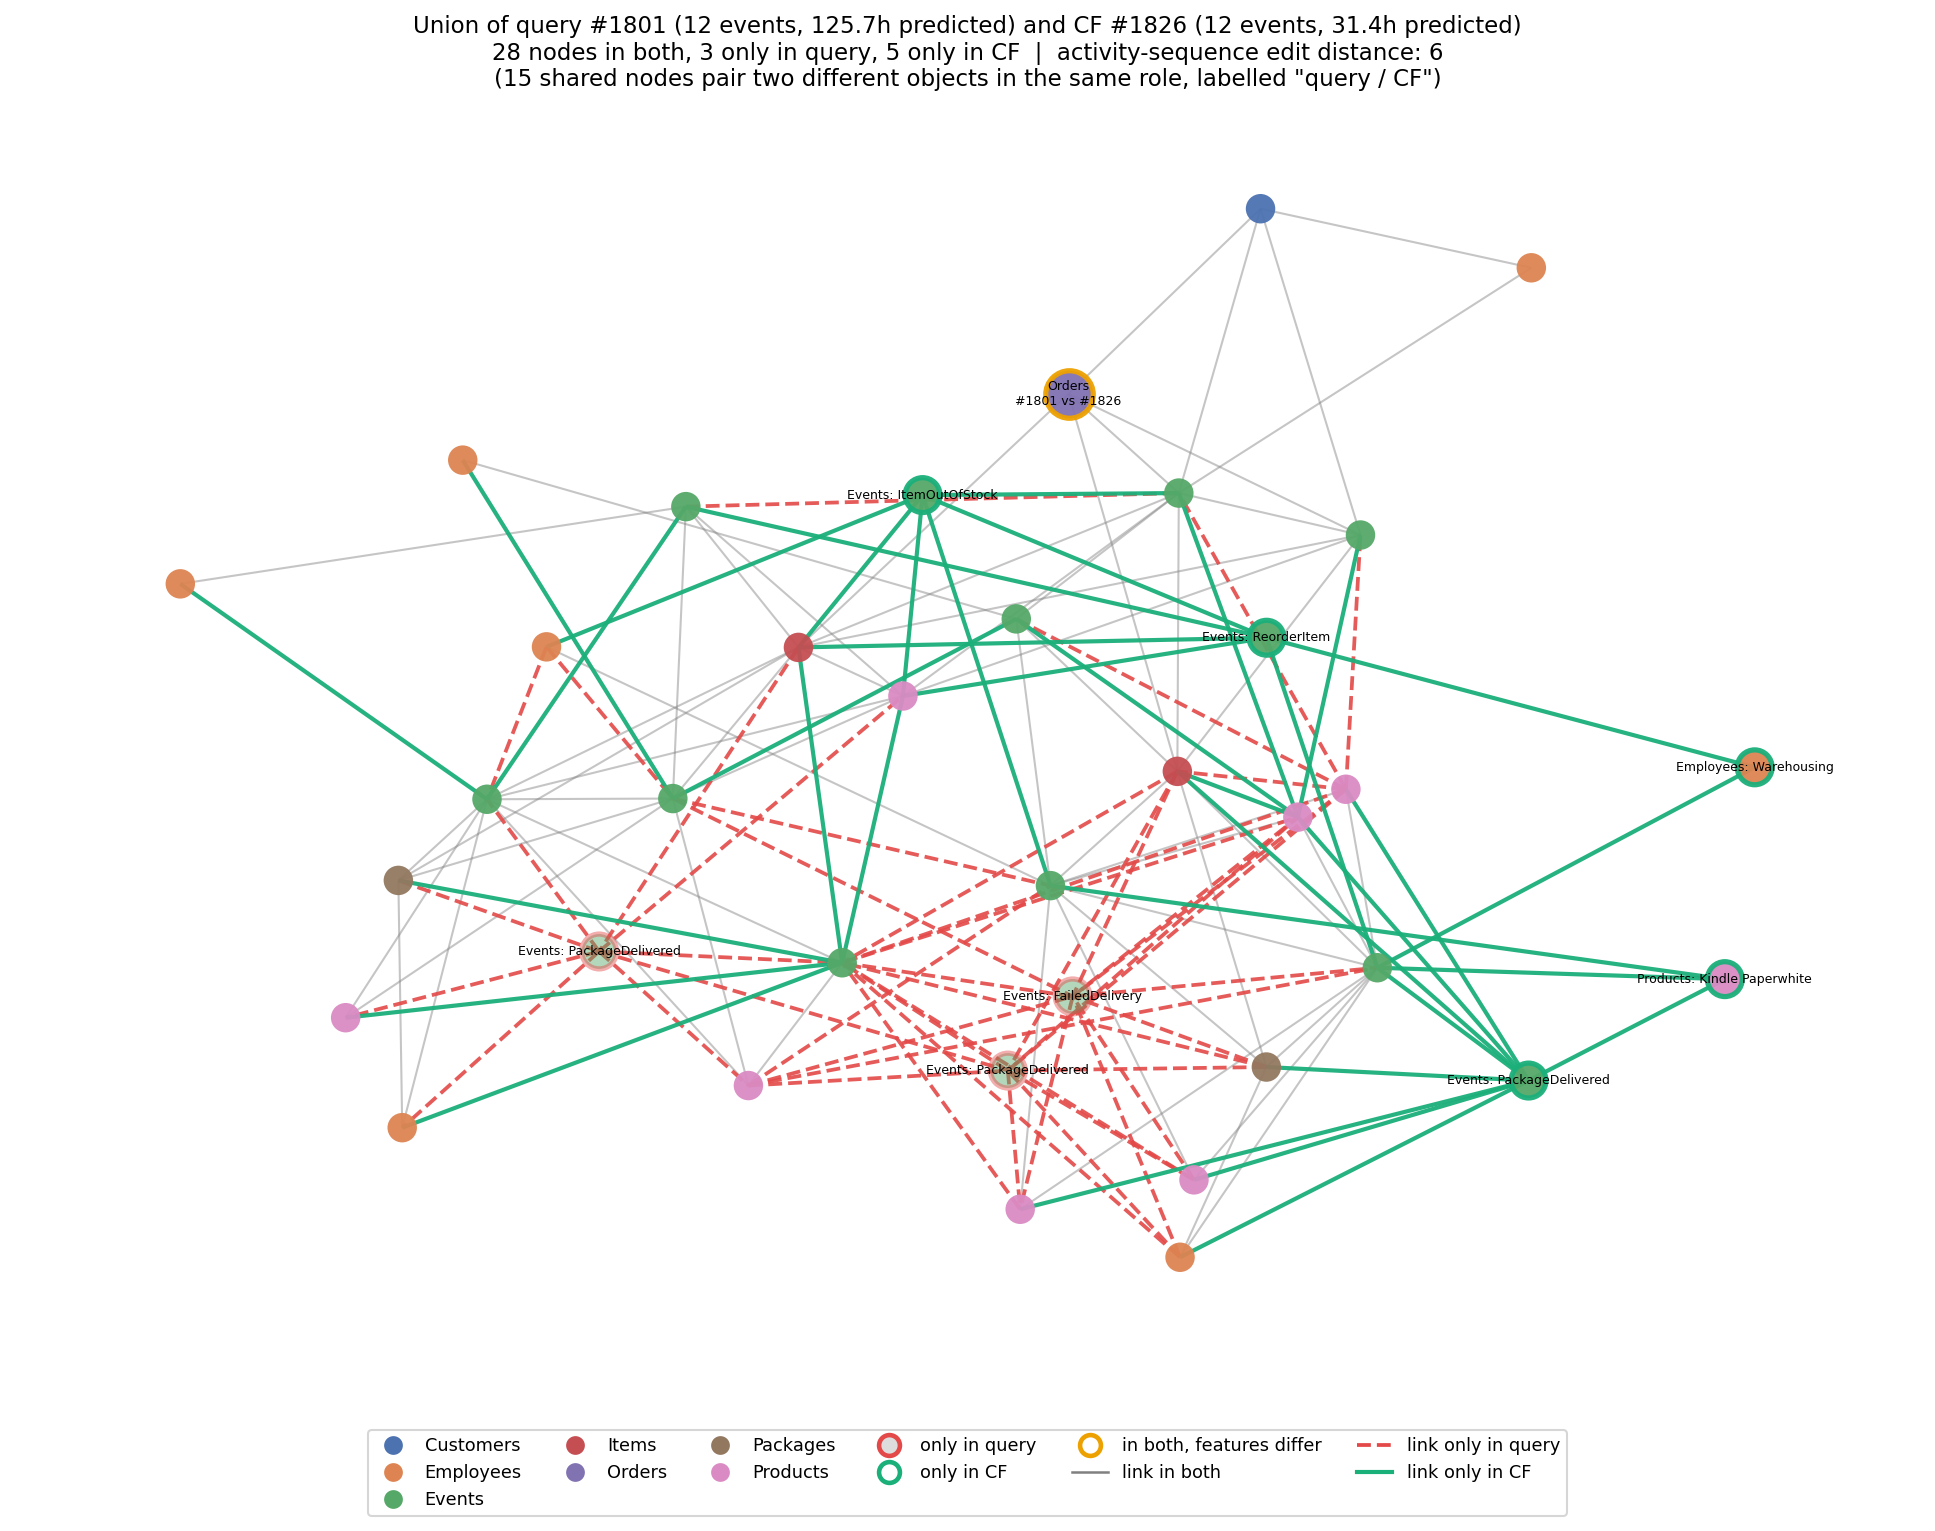
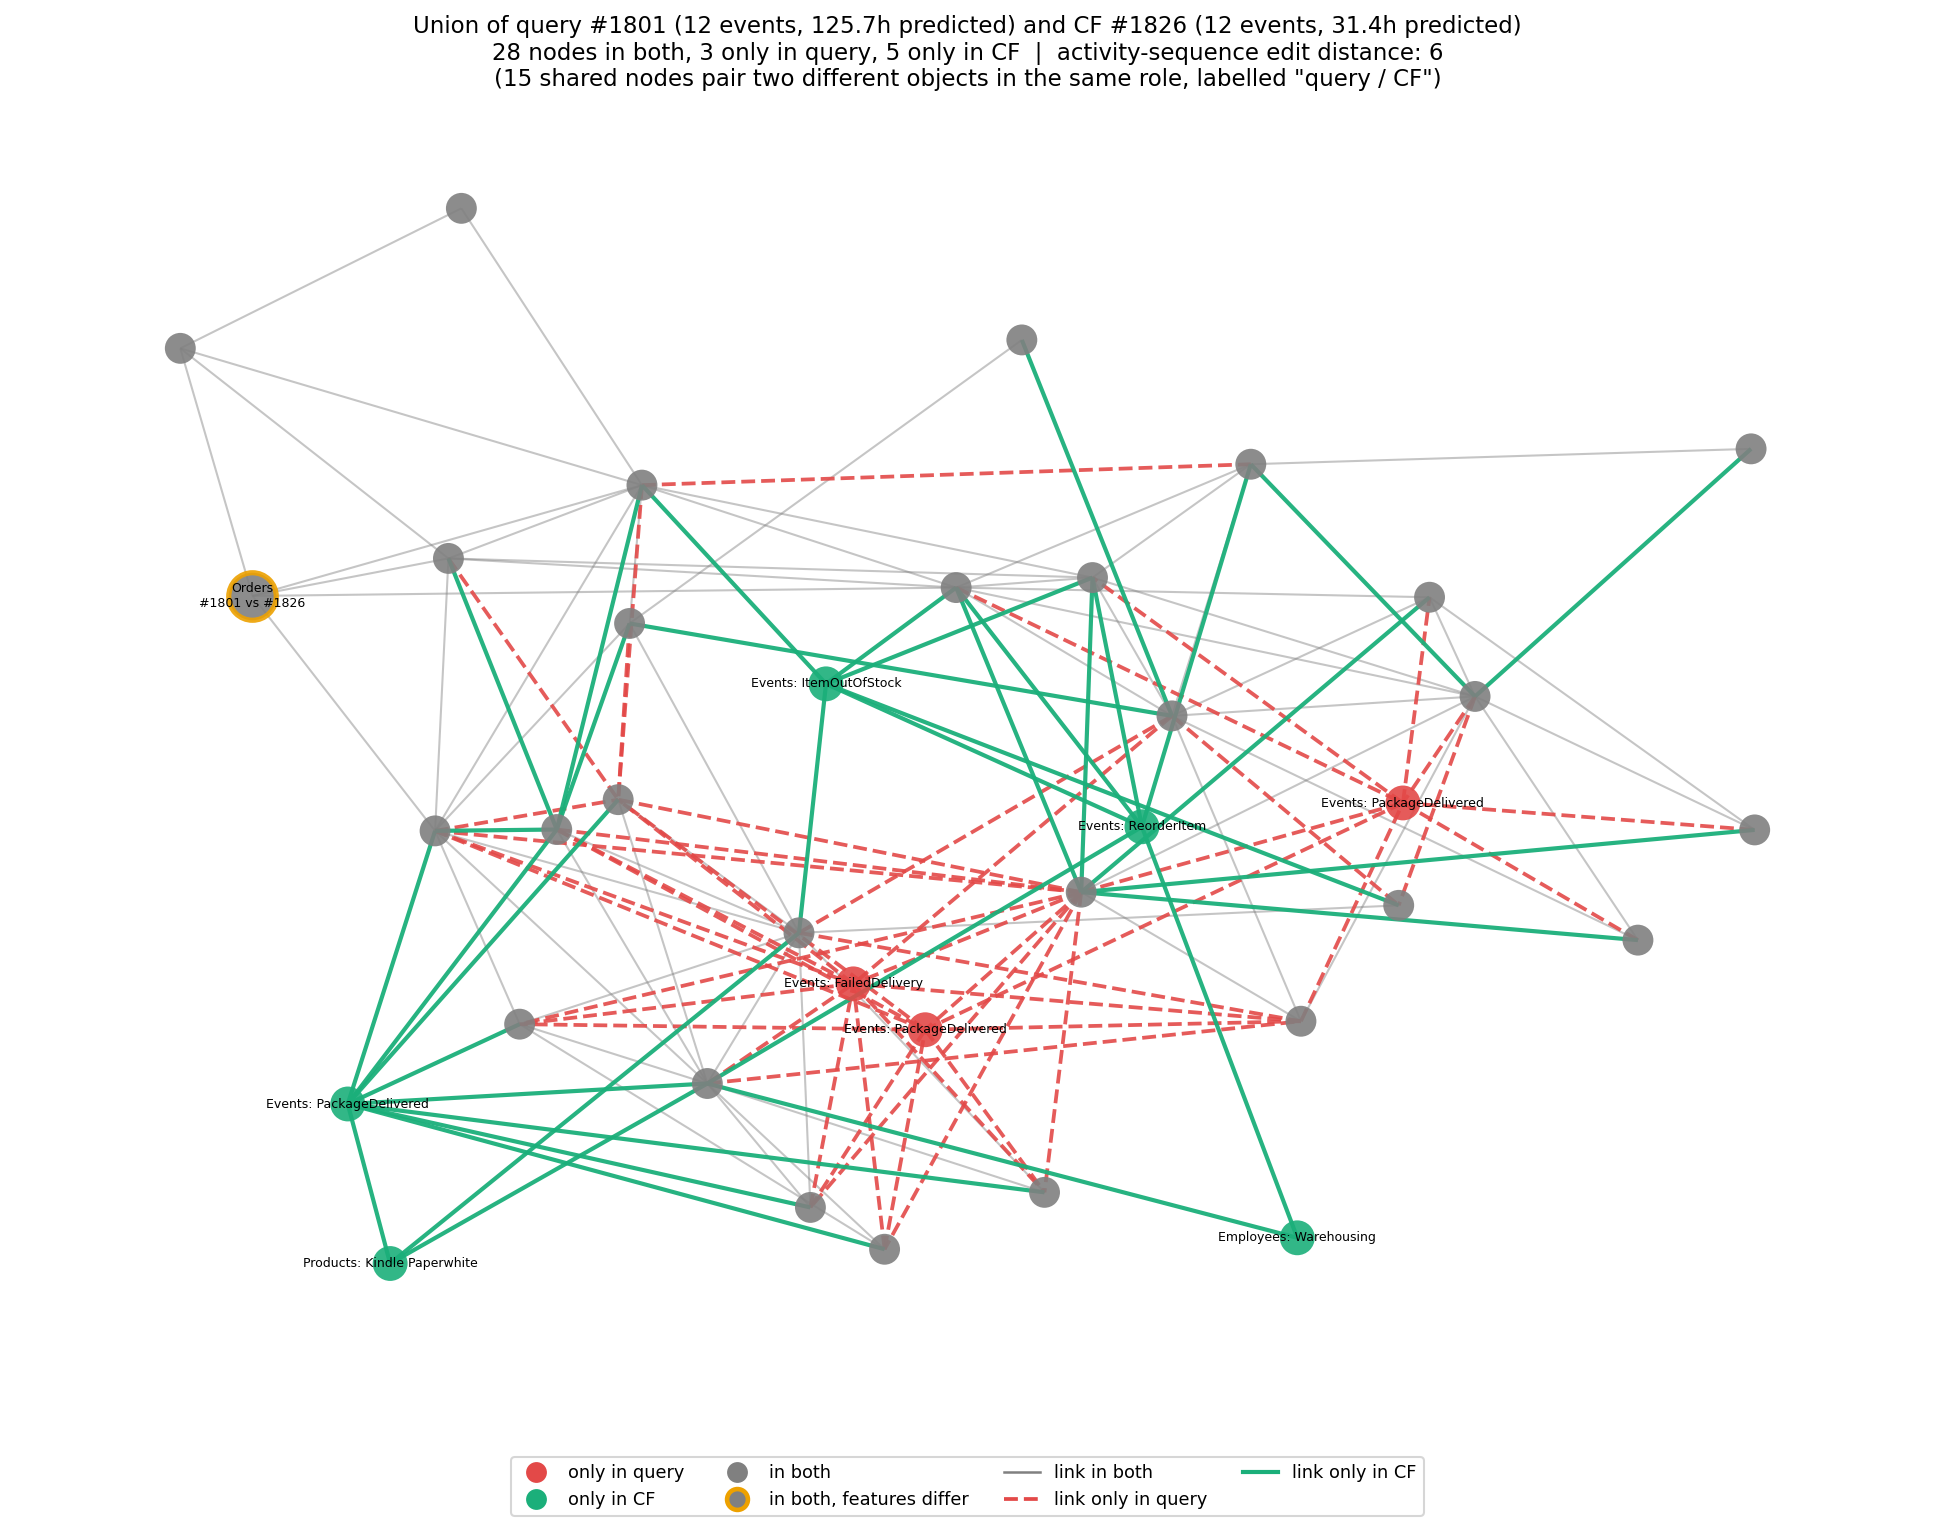
Add one 4-5 event counterfactual union example per KPI
cf_union_graph_examples.py draws one cf_union_<kpi>.png for each of the five
KPIs into thesis_parts/figures_tables/cf_union_examples/, with query and CF
both at 4-5 events. Selection is deterministic: the first test query whose
closest in-range CF moves the prediction by >= 10% (floor 1 h) and has nodes
on both sides of the union. LoadToVehicle runs with --min-gap-share 0: its
predictions at 2-7 events span only ~319-324 h, so its example (3.4 h gap)
is the largest contrast that model offers at this depth. Each pick is logged
in selection.csv. cf_showcase_union_graph.png regenerated in the new colours.

diff --git a/thesis_scripts/cf_union_graph_examples.py b/thesis_scripts/cf_union_graph_examples.py
@@ -1,0 +1,157 @@
+"""Counterfactual union-graph examples, one per KPI, all with 4-5 event prefixes.
+
+One cf_union_<kpi>.png per analysed KPI, all in thesis_parts/figures_tables/cf_union_examples/.
+Both the query prefix and its counterfactual have 4 or 5 Events, so the five examples are
+comparable in size and every node can be labelled.
+
+Selection is deterministic: test-set ids in ascending order; for each id with a 4-event
+prefix (then a 5-event one), find_counterfactuals(n_events=...) is run and its candidates
+with 4-5 events (and a predicted-time gap of >= 10% of the query's prediction, at least
+1 h) are scanned in dissimilarity order. The first pair whose union has nodes
+both only in the query and only in the CF is the example (a structurally identical pair
+would draw all-grey and illustrate nothing); if none turns up within MAX_QUERIES queries,
+the first in-range pair is used instead.
+Each pick is recorded in cf_union_examples/selection.csv (one row per KPI, replaced on rerun).
+
+--kpi runs against whatever config.yml and the graph caches CURRENTLY point at (it checks
+task_id and exits on a mismatch), so Depart and PackageDelivered need their caches swapped
+in first, as for loo_shapley_trace_showcase.py.
+
+Usage (from the repo root):
+    PYTHONPATH=. python3 thesis_scripts/cf_union_graph_examples.py --kpi om_payorder
+    PYTHONPATH=. python3 thesis_scripts/cf_union_graph_examples.py --kpi logistics_loadtovehicle --min-gap-share 0
+"""
+import argparse
+import os
+
+import pandas as pd
+import torch
+
+import explainer as exp
+
+OUT_DIR = "thesis_parts/figures_tables/cf_union_examples"
+SELECTION_CSV = os.path.join(OUT_DIR, "selection.csv")
+EVENT_RANGE = (4, 5)
+MAX_QUERIES = 200
+# A CF must move the prediction by at least this share of the query's own prediction
+# (floor 1 h); otherwise the closest "lower" trace can sit a fraction of an hour below.
+# --min-gap-share overrides the share: LoadToVehicle's predictions at 2-7 events span
+# only ~319-324 h, so no pair there can clear 10% and it runs with the 1 h floor alone.
+MIN_GAP_SHARE, MIN_GAP_FLOOR_H = 0.10, 1.0
+
+# slug -> (database, cant, task_id)
+KPIS = {
+    "om_payorder": ("order_management", 2000, "TimeFrom_Orders_to_PayOrder"),
+    "om_packagedelivered": ("order_management", 2000, "TimeFrom_Orders_to_PackageDelivered"),
+    "logistics_depart": ("logistics", 1000, "TimeFrom_CustomerOrder_to_Depart"),
+    "logistics_loadtovehicle": ("logistics", 1000, "TimeFrom_CustomerOrder_to_LoadToVehicle"),
+    "iot_evaluatetruckexit": ("cargo_pickup_iot", 2000, "TimeFrom_Pickupplan_to_EvaluateTruckExit"),
+}
+
+
+def _n_events(g):
+    return g['Events'].x.size(0) if 'Events' in g.node_types else 0
+
+
+def _shows_both_sides(e, oid, n, r):
+    query_graph = e._locate_test_graph(oid, n)
+    id_map_q = e._decode_all_identifiers(query_graph, oid, n)
+    id_map_cf = e._decode_all_identifiers(r['graph'], r['order_id'], r['n_events'])
+    event_pairs, _ = e._align_cf_events(query_graph, r['graph'])
+    corr = e._cf_correspondence(query_graph, r['graph'], id_map_q, id_map_cf,
+                                event_pairs=event_pairs, merge_seeds=True, match_by_role=True)
+    return bool(corr['query_only']) and bool(corr['cf_only'])
+
+
+def _memoize_predictions(e):
+    # find_counterfactuals() re-predicts its whole depth-matched pool for every query;
+    # the test graphs never change, so each one only needs predicting once.
+    predict, cache = e._predict_value_for_graph, {}
+
+    def cached(graph, object_idx, perturbed_graph=None):
+        if perturbed_graph is not None:
+            return predict(graph, object_idx, perturbed_graph)
+        key = (id(graph), object_idx)
+        if key not in cache:
+            cache[key] = predict(graph, object_idx)
+        return cache[key]
+    e._predict_value_for_graph = cached
+
+
+def find_example(e, min_gap_share):
+    """(query id, n_events, CF result) with 4-5 events on both sides; see the docstring."""
+    _memoize_predictions(e)
+    vp = e.kpi_viewpoint
+    depths = {}
+    for g in e.test_data:
+        depths.setdefault(int(g[vp]['id'][0].item()), set()).add(_n_events(g))
+
+    tried, fallback = 0, None
+    for oid in sorted(depths):
+        for n in EVENT_RANGE:
+            if n not in depths[oid]:
+                continue
+            tried += 1
+            print(f"  query {tried}: #{oid} ({n} events)", flush=True)
+            query_h = e._predict_value_for_graph(e._locate_test_graph(oid, n), 0) / 3600.0
+            min_gap = max(MIN_GAP_FLOOR_H, min_gap_share * abs(query_h))
+            results = e.find_counterfactuals(oid, n_results=50, n_events=n,
+                                             min_gap_hours=min_gap)
+            in_range = [r for r in results if EVENT_RANGE[0] <= r['n_events'] <= EVENT_RANGE[1]]
+            for r in in_range:
+                if _shows_both_sides(e, oid, n, r):
+                    return oid, n, r, min_gap
+            if in_range and fallback is None:
+                fallback = (oid, n, in_range[0], min_gap)
+            if tried >= MAX_QUERIES:
+                return fallback
+    return fallback
+
+
+def main():
+    parser = argparse.ArgumentParser()
+    parser.add_argument("--kpi", required=True, choices=list(KPIS))
+    parser.add_argument("--min-gap-share", type=float, default=MIN_GAP_SHARE,
+                        help="minimum CF prediction gap as a share of the query's prediction "
+                             f"(floor {MIN_GAP_FLOOR_H:g} h)")
+    args = parser.parse_args()
+    database, cant, task_id = KPIS[args.kpi]
+
+    e = exp.Explainer(database, cant)
+    if e.task_id != task_id:
+        raise SystemExit(f"config.yml points at {e.task_id}, expected {task_id}")
+    e.model.load_state_dict(torch.load(e.model_path, weights_only=False))
+    e.model.eval()
+
+    found = find_example(e, args.min_gap_share)
+    if found is None:
+        raise SystemExit(f"{args.kpi}: no query/CF pair with {EVENT_RANGE} events found.")
+    oid, n, best, min_gap = found
+
+    query_graph = e._locate_test_graph(oid, n)
+    query_hours = e._predict_value_for_graph(query_graph, 0) / 3600.0
+    id_map_q = e._decode_all_identifiers(query_graph, oid, n)
+    id_map_cf = e._decode_all_identifiers(best['graph'], best['order_id'], best['n_events'])
+
+    os.makedirs(OUT_DIR, exist_ok=True)
+    filename = f"cf_union_{args.kpi}.png"
+    e._plot_cf_union_graph(query_graph, best['graph'], oid, best['order_id'], query_hours,
+                           best['predicted_hours'], OUT_DIR, id_map_q=id_map_q,
+                           id_map_cf=id_map_cf, filename=filename)
+
+    row = {'kpi': args.kpi, 'task_id': task_id, 'query_id': oid, 'query_events': n,
+           'query_pred_h': round(query_hours, 2), 'cf_id': best['order_id'],
+           'cf_events': best['n_events'], 'cf_pred_h': round(best['predicted_hours'], 2),
+           'dissimilarity': round(best['dissimilarity'], 4), 'min_gap_h': round(min_gap, 2),
+           'figure': filename}
+    print(row)
+    sel = pd.read_csv(SELECTION_CSV) if os.path.exists(SELECTION_CSV) else pd.DataFrame()
+    if not sel.empty:
+        sel = sel[sel['kpi'] != args.kpi]
+    sel = pd.concat([sel, pd.DataFrame([row])], ignore_index=True)
+    sel['order'] = sel['kpi'].map(list(KPIS).index)
+    sel.sort_values('order').drop(columns='order').to_csv(SELECTION_CSV, index=False)
+
+
+if __name__ == '__main__':
+    main()
